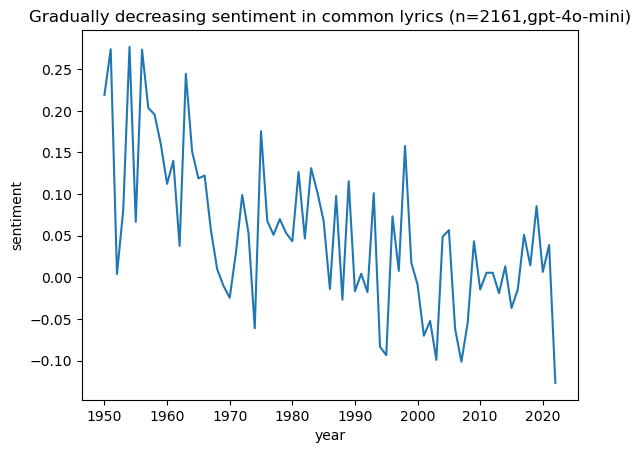
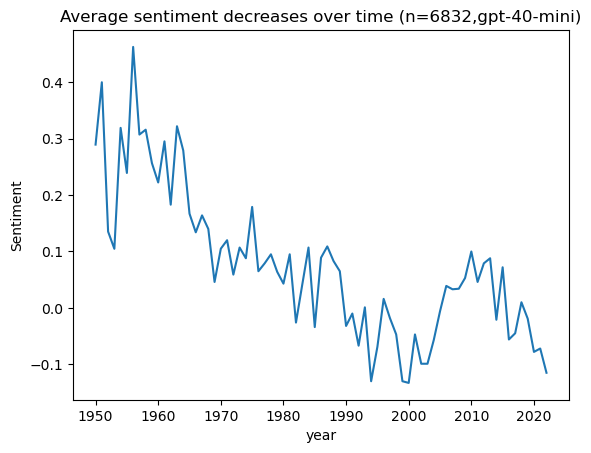
updated analysis using clean lyrics

Changed region(s): [[0.0, 0.0, 1.0, 0.989], [0.335, 0.8962, 0.3959, 0.9272], [0.2437, 0.8962, 0.3046, 0.9272]]

diff --git a/src/sentiment_per_year_gpt_4o.py b/src/sentiment_per_year_gpt_4o.py
@@ -37,9 +37,6 @@ print("Generate sample...")
 #Generate sample of lyrics - only
 song_lyrics_clean_sample_df = song_lyrics_clean_df.copy()
 
-#Songs from 1950 onwards
-song_lyrics_clean_sample_df = song_lyrics_clean_sample_df[(song_lyrics_clean_sample_df['year'] >= 1950)]
-
 #Generate sample based on year
 #TODO need to put a limit on number of songs that can be represented by a single artist, in the set and in a given year.
 song_lyrics_clean_sample_df= song_lyrics_clean_sample_df.groupby('year').apply(lambda x: x.sample(n=100, random_state=42) if len(x) > 100 else x)
@@ -47,13 +44,13 @@ song_lyrics_clean_sample_df = song_lyrics_clean_sample_df.reset_index(drop=True)
 
 print("Number of samples: " + str(len(song_lyrics_clean_sample_df)))
 
-print("Apply sentiment with confidence using gpt-4o...")
-song_lyrics_clean_sample_df['gpt_4o_score'] = song_lyrics_clean_sample_df['lyrics'].apply(gpt_4o.get_lyrics_sentiment_score)
+print("Apply sentiment with confidence using gpt...")
+song_lyrics_clean_sample_df['sentiment_score_gpt'] = song_lyrics_clean_sample_df['clean_lyrics'].apply(gpt_4o.get_lyrics_sentiment_score)
 
 # Make sure sentiment is numeric
-song_lyrics_clean_sample_df['gpt_4o_score'] = pd.to_numeric(song_lyrics_clean_sample_df['gpt_4o_score'], errors='coerce')
+song_lyrics_clean_sample_df['sentiment_score_gpt'] = pd.to_numeric(song_lyrics_clean_sample_df['sentiment_score_gpt'], errors='coerce')
 
 # Group by year
-yearly_sentiment = song_lyrics_clean_sample_df.groupby('year')['gpt_4o_score'].mean().plot(title="Average sentiment decreases over time [gpt-40-mini]",
-                                                                                           ylabel="Sentiment")
+yearly_sentiment = song_lyrics_clean_sample_df.groupby('year')['sentiment_score_gpt'].mean().plot(title="Average sentiment decreases over time (n=6832,gpt-40-mini)",
+                                                                                                  ylabel="Sentiment")
 
